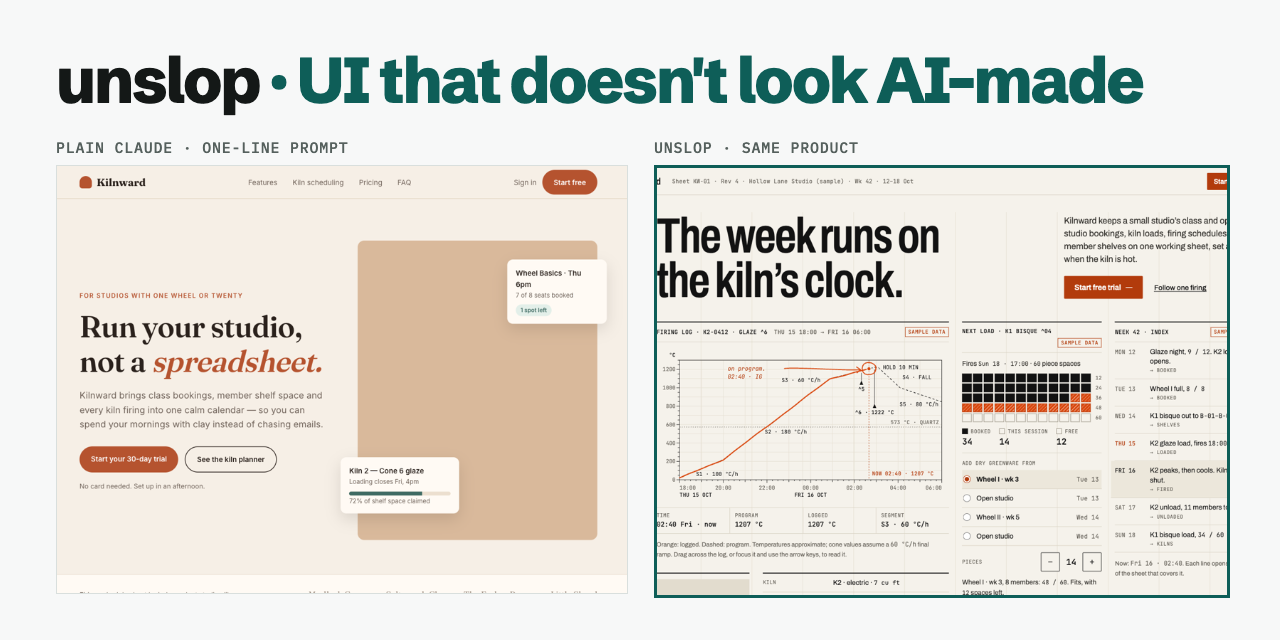
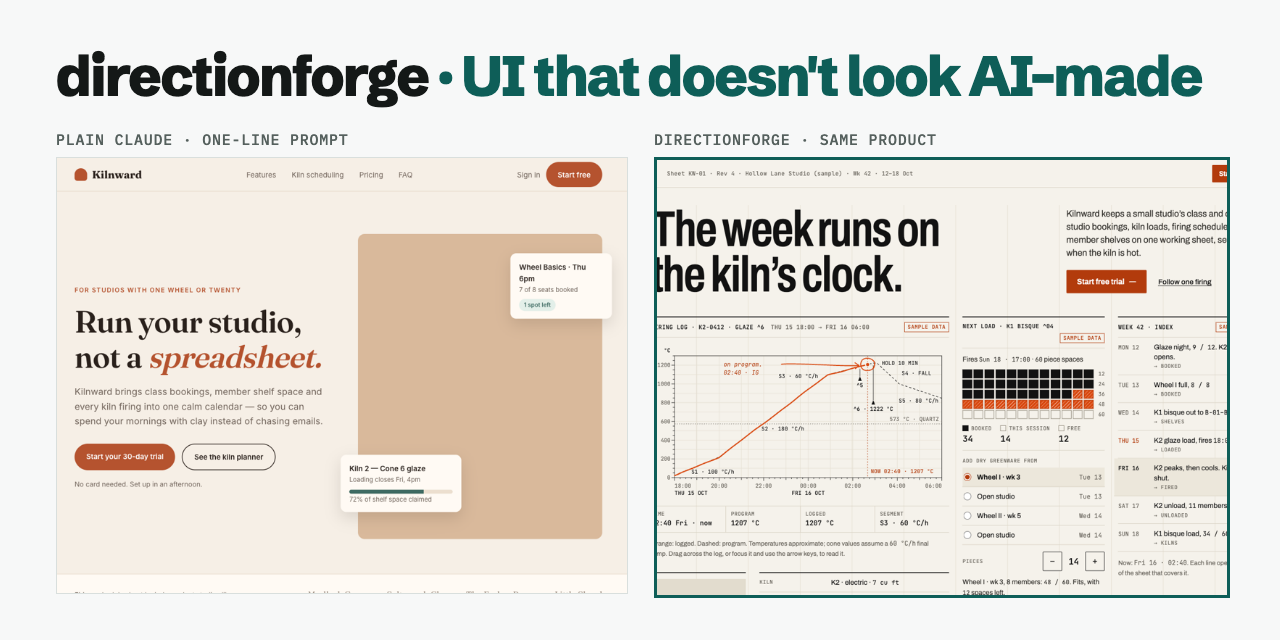
Rename unslop to directionforge on the demo site

diff --git a/index.html b/index.html
@@ -3,12 +3,12 @@
 <head>
 <meta charset="utf-8">
 <meta name="viewport" content="width=device-width, initial-scale=1, viewport-fit=cover">
-<title>unslop · Kilnward demo</title>
-<meta name="description" content="One run of the unslop Claude Code plugin, end to end: references, ten directions, three iterations and a final page for a fictional ceramic-studio app, compared with plain Claude.">
-<meta property="og:title" content="unslop · Kilnward demo">
-<meta property="og:description" content="The same landing page three ways: a one-line prompt, a full brief, and the unslop process.">
-<meta property="og:image" content="https://amratansh12.github.io/unslop/assets/social.png">
-<meta property="og:url" content="https://amratansh12.github.io/unslop/">
+<title>directionforge · Kilnward demo</title>
+<meta name="description" content="One run of the directionforge Claude Code plugin, end to end: references, ten directions, three iterations and a final page for a fictional ceramic-studio app, compared with plain Claude.">
+<meta property="og:title" content="directionforge · Kilnward demo">
+<meta property="og:description" content="The same landing page three ways: a one-line prompt, a full brief, and the directionforge process.">
+<meta property="og:image" content="https://amratansh12.github.io/directionforge/assets/social.png">
+<meta property="og:url" content="https://amratansh12.github.io/directionforge/">
 <meta name="twitter:card" content="summary_large_image">
 <link rel="icon" href="data:,">
 <link rel="preconnect" href="https://fonts.googleapis.com">
@@ -81,13 +81,13 @@
 <body>
 <div class="wrap">
   <header class="top">
-    <a class="mark" href="https://github.com/amratansh12/unslop">unslop</a>
+    <a class="mark" href="https://github.com/amratansh12/directionforge">directionforge</a>
     <span class="label">Demo run · 23 Oct 2026</span>
   </header>
 
   <h1>The same landing page, three ways.</h1>
   <div class="col">
-    <p class="lede">One brief for Kilnward, a made-up booking and kiln-scheduling app for small ceramic studios, built by plain Claude from a one-line prompt, by plain Claude from the full brief, and through the unslop process.</p>
+    <p class="lede">One brief for Kilnward, a made-up booking and kiln-scheduling app for small ceramic studios, built by plain Claude from a one-line prompt, by plain Claude from the full brief, and through the directionforge process.</p>
     <p class="note">Kilnward is fictional, and every name, schedule and figure on these pages is sample data. For this demo Claude wrote the brief and guardrails and made every pick, at the plugin author's request. In a normal run you write the guardrails and make every pick yourself.</p>
   </div>
 
@@ -105,8 +105,8 @@
         <p>The complete brief, including the Always and Never guardrails, with no references and no process. Unedited.</p>
       </div>
       <div class="shot ours">
-        <a class="frame" href="kilnward/final/index.html"><img src="assets/unslop.png" alt="First screen of the final unslop page" width="1440" height="900"></a>
-        <div class="who"><span class="tag">unslop</span><h3>Final page</h3></div>
+        <a class="frame" href="kilnward/final/index.html"><img src="assets/directionforge.png" alt="First screen of the final directionforge page" width="1440" height="900"></a>
+        <div class="who"><span class="tag">directionforge</span><h3>Final page</h3></div>
         <p>The same brief through references, ten directions, three iterations and a final build.</p>
       </div>
     </div>
@@ -158,13 +158,13 @@
 
   <section aria-labelledby="try">
     <h2 id="try">Run it on your own brief</h2>
-    <pre>claude plugin marketplace add amratansh12/unslop
-claude plugin install unslop@unslop</pre>
-    <a class="cta" href="https://github.com/amratansh12/unslop">View unslop on GitHub</a>
+    <pre>claude plugin marketplace add amratansh12/directionforge
+claude plugin install directionforge@directionforge</pre>
+    <a class="cta" href="https://github.com/amratansh12/directionforge">View directionforge on GitHub</a>
   </section>
 
   <footer>
-    unslop is MIT licensed. It runs <a href="https://impeccable.style">impeccable</a> and <a href="https://github.com/Leonxlnx/taste-skill">tasteskill</a>, which are separate projects. Reference screenshots are not reproduced on this site.
+    directionforge is MIT licensed. It runs <a href="https://impeccable.style">impeccable</a> and <a href="https://github.com/Leonxlnx/taste-skill">tasteskill</a>, which are separate projects. Reference screenshots are not reproduced on this site.
   </footer>
 </div>
 </body>

diff --git a/kilnward/index.html b/kilnward/index.html
@@ -4,7 +4,7 @@
 <meta charset="utf-8">
 <meta name="viewport" content="width=device-width, initial-scale=1">
 <link rel="icon" href="data:,">
-<title>unslop</title>
+<title>directionforge</title>
 <style>
   :root {
     --bg: #f6f6f4; --surface: #ffffff; --ink: #18181b; --muted: #5f5f66; --line: #e2e2de;
@@ -51,7 +51,7 @@
 </head>
 <body>
 <header>
-  <h1 id="title">unslop</h1>
+  <h1 id="title">directionforge</h1>
   <a class="btn" href="references/gallery.html">Reference gallery</a>
   <span class="spacer"></span>
   <a class="btn" id="open" href="#" target="_blank" rel="noopener" hidden>Open in new tab</a>
@@ -84,7 +84,7 @@
 
   if (!total) {
     document.getElementById('row-builds').hidden = true;
-    stageEl.innerHTML = '<div class="empty"><p>No builds yet.<br>After a stage, unslop runs <code>scripts/manifest.py</code> and they appear here.</p></div>';
+    stageEl.innerHTML = '<div class="empty"><p>No builds yet.<br>After a stage, directionforge runs <code>scripts/manifest.py</code> and they appear here.</p></div>';
   }
 
   // State lives in the URL hash (#stage-2/3) so a link opens the same build.

diff --git a/kilnward/references/gallery.html b/kilnward/references/gallery.html
@@ -123,7 +123,7 @@
   if (!data || !Array.isArray(data.groups) || !data.groups.length) {
     main.innerHTML = window.DS_GALLERY_ERROR
       ? '<p class="empty"><code>gallery-data.js</code> failed to load or parse. Check the browser console for the error.</p>'
-      : '<p class="empty">No references yet. unslop writes <code>gallery-data.js</code> next to this page once the references are grouped.</p>';
+      : '<p class="empty">No references yet. directionforge writes <code>gallery-data.js</code> next to this page once the references are grouped.</p>';
     document.getElementById('copy').disabled = true;
     return;
   }

diff --git a/kilnward/decisions.html b/kilnward/decisions.html
@@ -10,7 +10,7 @@ p{font:400 15px/1.5 system-ui,sans-serif;color:var(--muted)}</style></head>
 <body><main><p><a href="../index.html">Back to the demo</a> · Decision log · the file exactly as written during the run.</p>
 <pre># Decision log
 
-&lt;!-- unslop keeps this file current after every stage. A new session reads &quot;Current stage&quot;
+&lt;!-- directionforge keeps this file current after every stage. A new session reads &quot;Current stage&quot;
      first to resume. Record the user&#x27;s picks in their own words where possible. --&gt;
 
 ## Current stage

diff --git a/kilnward/product.html b/kilnward/product.html
@@ -12,7 +12,7 @@ p{font:400 15px/1.5 system-ui,sans-serif;color:var(--muted)}</style></head>
 
 &lt;!-- impeccable:product-schema 1 --&gt;
 
-&lt;!-- Written by unslop at intake from the approved design/brief.md. Demo run: brief authored by Claude. --&gt;
+&lt;!-- Written by directionforge at intake from the approved design/brief.md. Demo run: brief authored by Claude. --&gt;
 
 ## Platform
 

diff --git a/kilnward/decisions.md b/kilnward/decisions.md
@@ -1,6 +1,6 @@
 # Decision log
 
-<!-- unslop keeps this file current after every stage. A new session reads "Current stage"
+<!-- directionforge keeps this file current after every stage. A new session reads "Current stage"
      first to resume. Record the user's picks in their own words where possible. -->
 
 ## Current stage

diff --git a/kilnward/PRODUCT.md b/kilnward/PRODUCT.md
@@ -2,7 +2,7 @@
 
 <!-- impeccable:product-schema 1 -->
 
-<!-- Written by unslop at intake from the approved design/brief.md. Demo run: brief authored by Claude. -->
+<!-- Written by directionforge at intake from the approved design/brief.md. Demo run: brief authored by Claude. -->
 
 ## Platform
 
